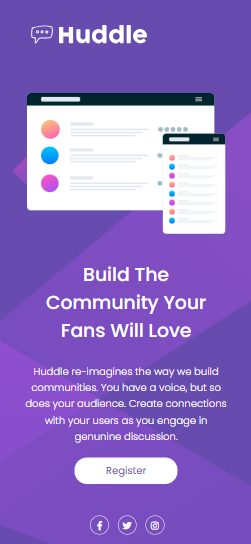
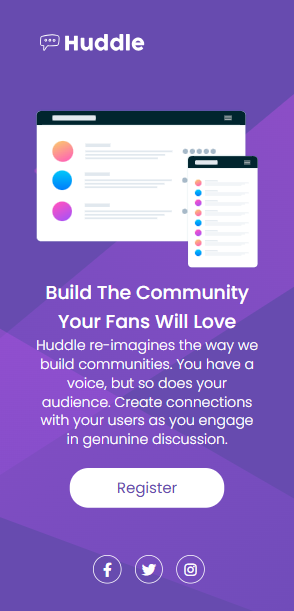
refatoração no index e estilos

Changed region(s): [[0.0558, 0.1562, 1.0, 1.0], [0.1116, 0.0312, 0.5857, 0.0938], [0.0, 0.5312, 0.0837, 0.5938]]

diff --git a/src/css/responsivo.css b/src/css/responsivo.css
@@ -7,9 +7,15 @@
         background-size: cover;
         padding: 30px 40px;
     }
-
+    .header{
+        margin-bottom: 50px;
+    }
+    .header a img{
+        width: 120px;
+    }
     .main {
         gap: 0;
+        flex-wrap: wrap;
     }
 
     .main .info {
@@ -18,12 +24,64 @@
     }
 
     .main .info h1 {
-        font-size: 30px;
+        font-size: 20px;
+        margin-bottom:20px ;
+      
+    }
+    .main .info p{
+        font-size: 15px;
+        line-height: 20px;
+        
     }
 
-
-.footer {
-    text-align: center;
-    padding: 60px 0 20px 0;
+    .footer {
+        text-align: center;
+        padding: 60px 0 20px 0;
+    }
 }
+
+@media(max-width:1200px) {
+
+    .main {
+        max-width: 1200px;
+        width: 100%;
+        margin: 0 auto;
+        display: flex;
+        flex-direction: column;
+        align-items: center;
+        text-align: center;
+        gap: 10px;
+        flex-wrap: wrap;
+    }
+
+    .main .info {
+        display: block;
+        text-align: center;
+    }
+
+    .main .info h1 {
+        text-align: center;
+        margin: 0 auto; 
+    }
+    .footer {
+        text-align: center;
+        padding: 60px 0 20px 0;
+    }
+}
+
+@media (min-width: 1600px) {
+    body {
+        padding: 40px 80px;
+
+    }
+
+    .main {
+        justify-content: center;
+        align-content: center;
+    }
+
+    .main .info h1 {
+        font-size: 45px;
+       
+    }
 }

diff --git a/index.html b/index.html
@@ -5,7 +5,7 @@
   <meta charset="UTF-8">
   <meta name="viewport" content="width=device-width, initial-scale=1.0">
 
-  <link rel="icon" type="image/png" sizes="32x32" href="./images/favicon-32x32.png">
+  <link rel="icon" type="image/png" sizes="32x32" href="src/images/favicon-32x32.png">
 
   <link rel="stylesheet" href="./src/css/reset.css">
   <link rel="stylesheet" href="./src/css/estilos.css">
@@ -24,7 +24,7 @@
 </head>
 
 <body>
-  <div class="container">
+ 
   <header class="header">
     <a href="/"><img src="src/images/logo.svg" alt="logo Huddle"></a>
   </header>
@@ -39,11 +39,11 @@
     </div>
   </main>
   <footer class="footer">
-    <a href=""><i class="fab fa-facebook-f"></i> </a>
-    <a href=""><i class="fab fa-twitter"></i> </a>
-    <a href=""><i class="fab fa-instagram"></i> </a>
+    <a href="#"><i class="fab fa-facebook-f"></i> </a>
+    <a href="#"><i class="fab fa-twitter"></i> </a>
+    <a href="#"><i class="fab fa-instagram"></i> </a>
   </footer>
-</div>
+
 </body>
 
 </html>

diff --git a/src/css/estilos.css b/src/css/estilos.css
@@ -4,14 +4,8 @@ body {
     font-family: "Poppins", sans-serif;
     color: #fff;
     padding: 30px 60px;
-    height: 100%;
+    height: 100vh;
     background-size: cover;
-}
-
-.containaer {
-    display: flex;
-    max-width: 800px;
-
 }
 
 .header {
@@ -25,14 +19,11 @@ body {
 
 .main {
     display: flex;
-    flex-wrap: wrap;
-    gap: 60px;   
+    gap: 60px; 
+   
 }
-.main .info{
-    justify-content: center;
-}
+
 .main .info h1 {
-    font-size: 35px;
     max-width: 400px;
     font-weight: 500;
     margin-bottom: 30px;
@@ -40,7 +31,6 @@ body {
 }
 
 .main .info p {
-    font-size: 30;
     margin-bottom: 30px;
     font-weight: 300;
     max-width: 550px;
@@ -65,7 +55,7 @@ body {
 }
 
 .footer i {
-    border-radius: 30px;
+    border-radius: 50%;
     color: #fff;
     display: inline-block;
     height: 30px;

diff --git a/README.md b/README.md
@@ -1,6 +1,6 @@
 
-  <h1>Página de Landing Huddle com Seção Introdutória</h1>
-  <p>Este projeto é uma página de landing page desenvolvida como solução para a primeira Quest do curso Dev Quest. Ele exibe um design moderno e simples para promover a plataforma Huddle, que enfatiza a construção de comunidades por meio de engajamento genuíno e discussões. A página é totalmente responsiva, garantindo uma boa visualização em diferentes dispositivos.</p>
+  <h1>Página de Landing Huddle </h1>
+  <p>Este projeto é uma página de landing page desenvolvida como solução para a primeira Quest do curso Dev Quest web fullstack. Nesse desafio foi testado o desenvolvimento de uma pagina web ultilizando linguagens de HTML e CSS. Ele exibe um design moderno e simples para promover a plataforma Huddle, que enfatiza a construção de comunidades por meio de engajamento genuíno e discussões. A página é totalmente responsiva, garantindo uma boa visualização em diferentes dispositivos.</p>
 
   <h2>Índice</h2>
   <ul>
